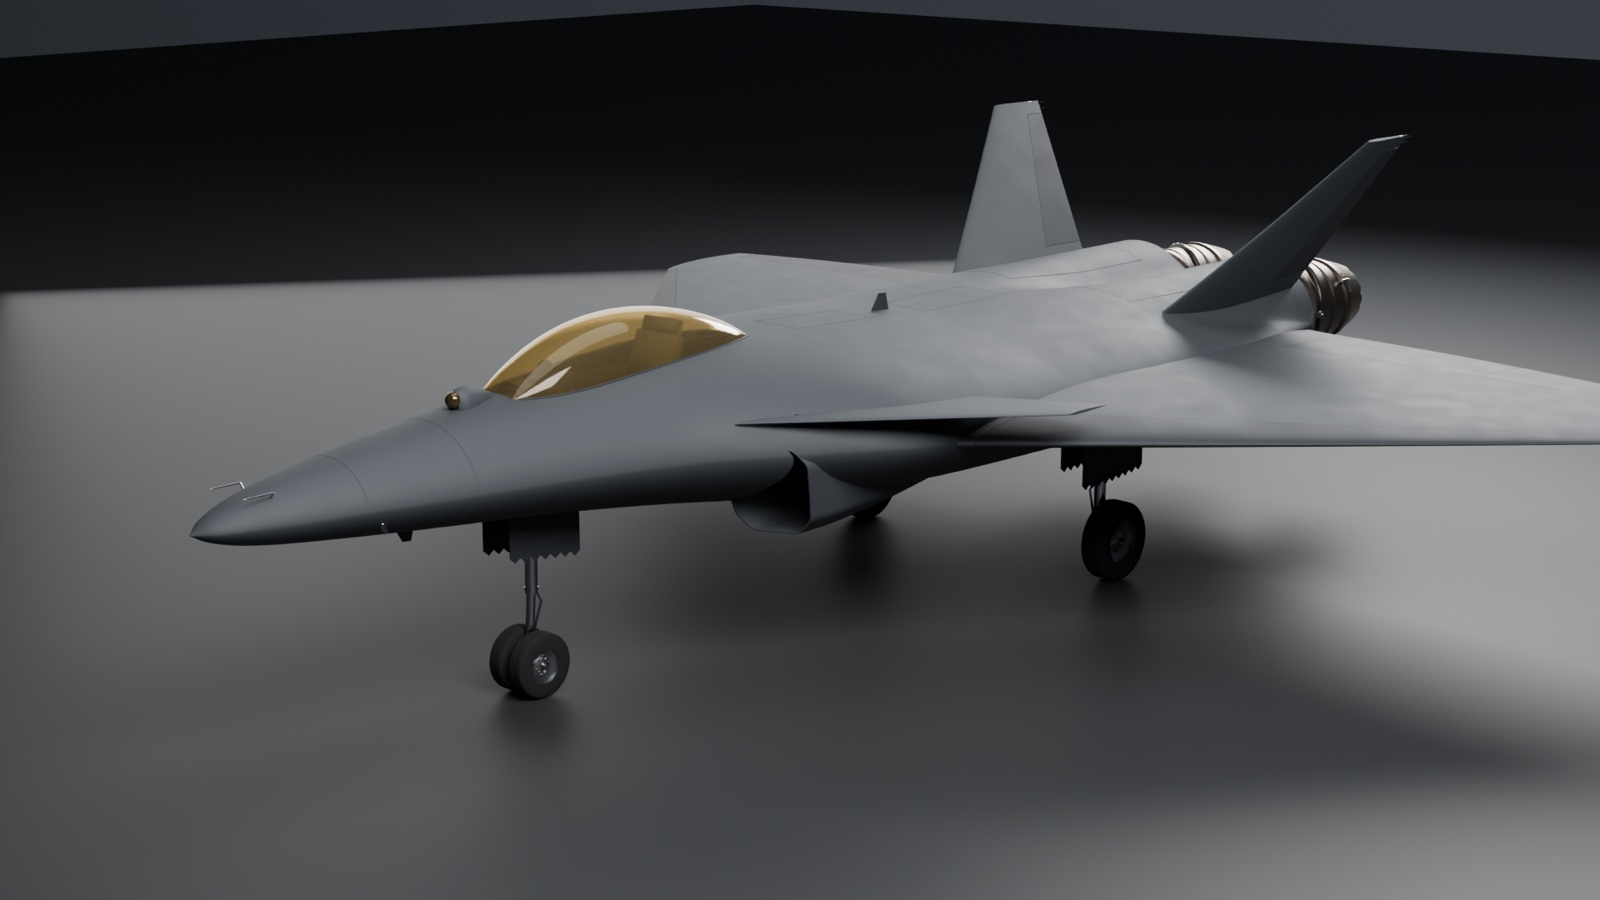
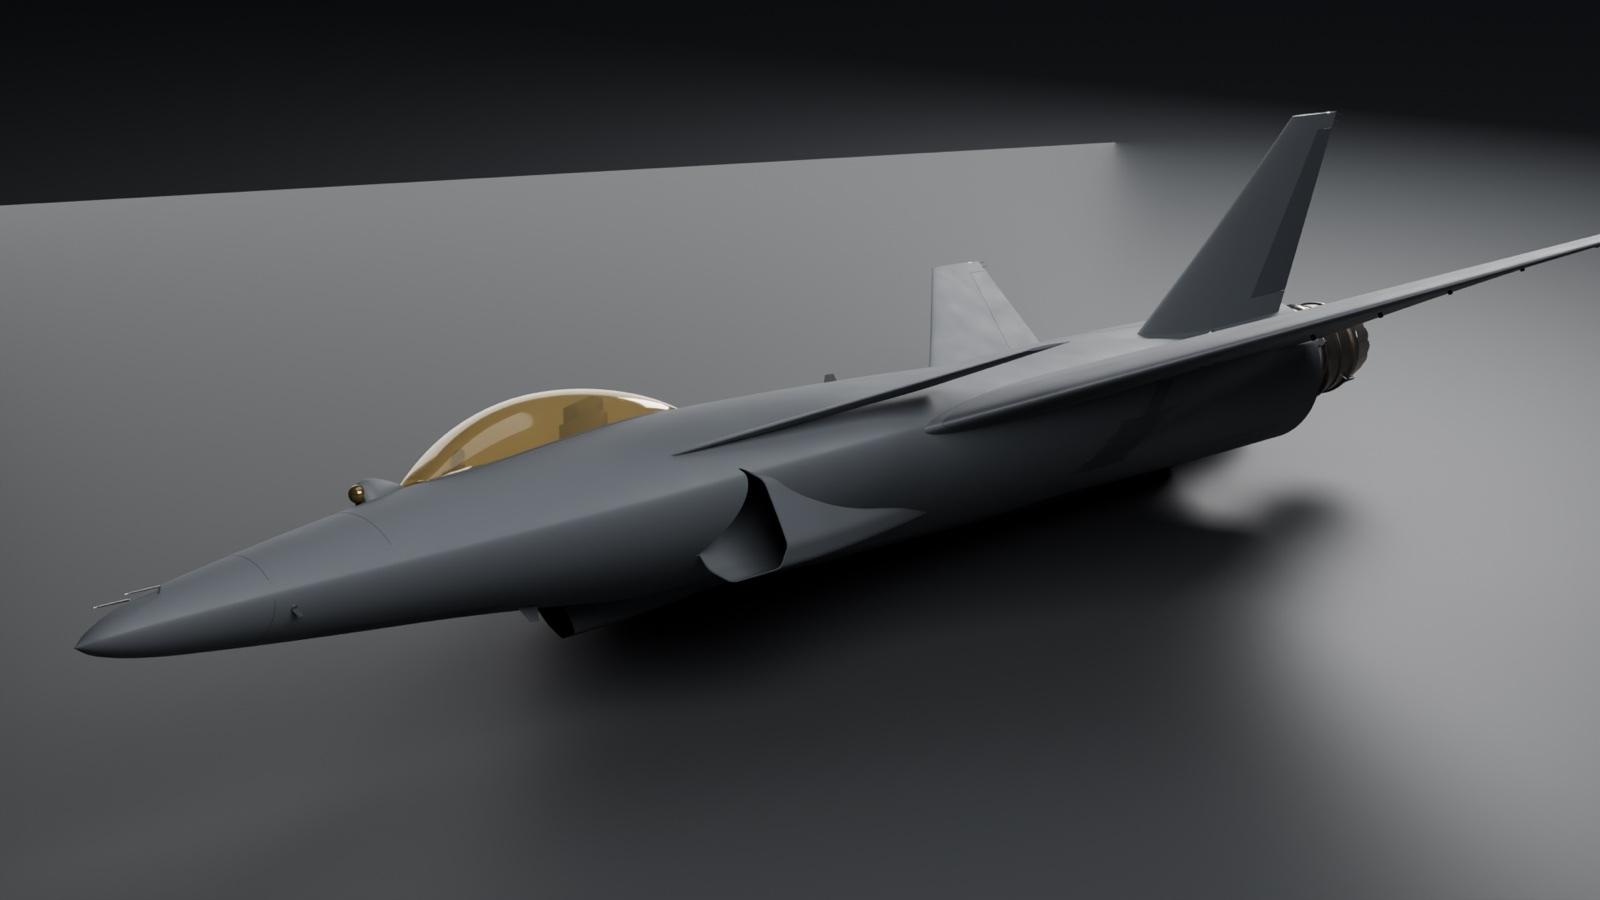
Nyx: in flight, gear up

diff --git a/index.html b/index.html
@@ -190,7 +190,7 @@
       </div>
 
       <article class="card">
-        <img class="shot" src="img/nyx.jpg" alt="Render of the Nyx canard-delta fighter">
+        <img class="shot" src="img/nyx.jpg" alt="Render of the Nyx canard-delta fighter in flight, gear up">
         <div class="body">
           <div class="role">Vehicle</div>
           <h3>Nyx</h3>
